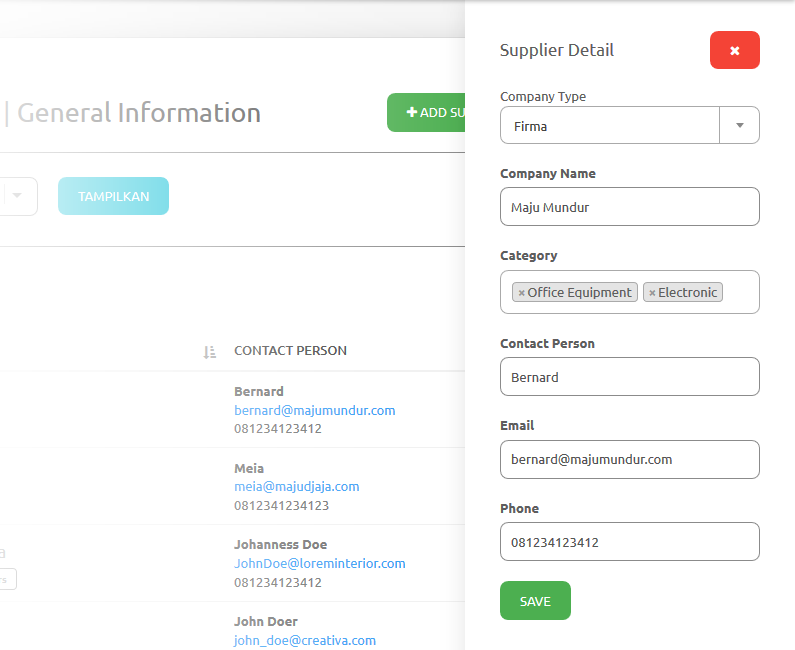
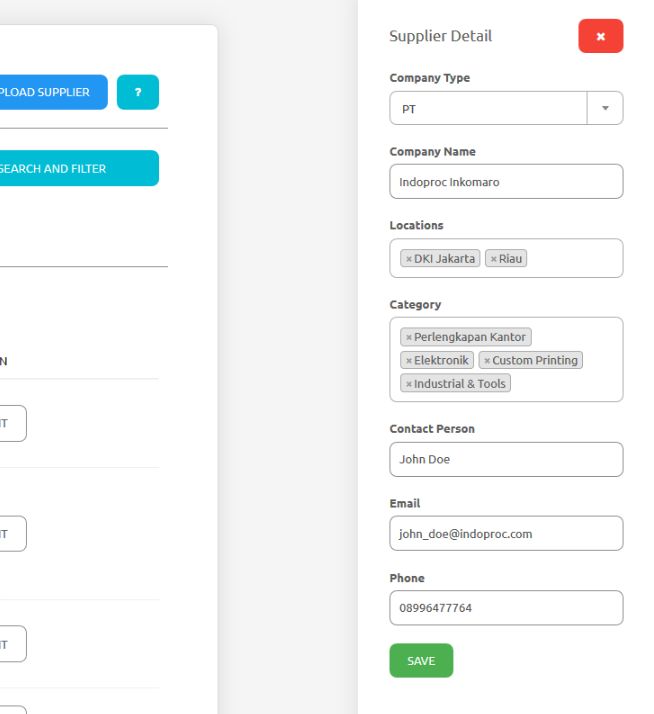
location vendor

diff --git a/source/Client/supplier_list.rst b/source/Client/supplier_list.rst
@@ -16,8 +16,8 @@ You can add your own supplier list into this website for invite them to your cre
 Create New Supplier
 -------------------
 
- .. image:: ../img_src/addsup.png
-     :width: 600px
+ .. image:: ../img_src/supup.png
+     :width: 430px
      :alt: Login Section
 
  - Click "Add Supplier" button on the top right of this page.
@@ -26,7 +26,7 @@ Create New Supplier
     :width: 600px
     :alt: Login Section
  
- - Side panel will be opened and you could input the company type, company name, category, contact person, email and phone.
+ - Side panel will be opened and you could input the company type, company name, Locations, category, contact person, email and phone.
  - Then you can click "Save" button to save the supplier. 
  
 Edit/Update Supplier
@@ -44,7 +44,7 @@ Import Your Supplier List
 -------------------------
 
  .. image:: ../img_src/supup.png
-    :width: 600px
+    :width: 430px
     :alt: Login Section
 
  - You can click on "Upload Supplier" on the top right of the page.
